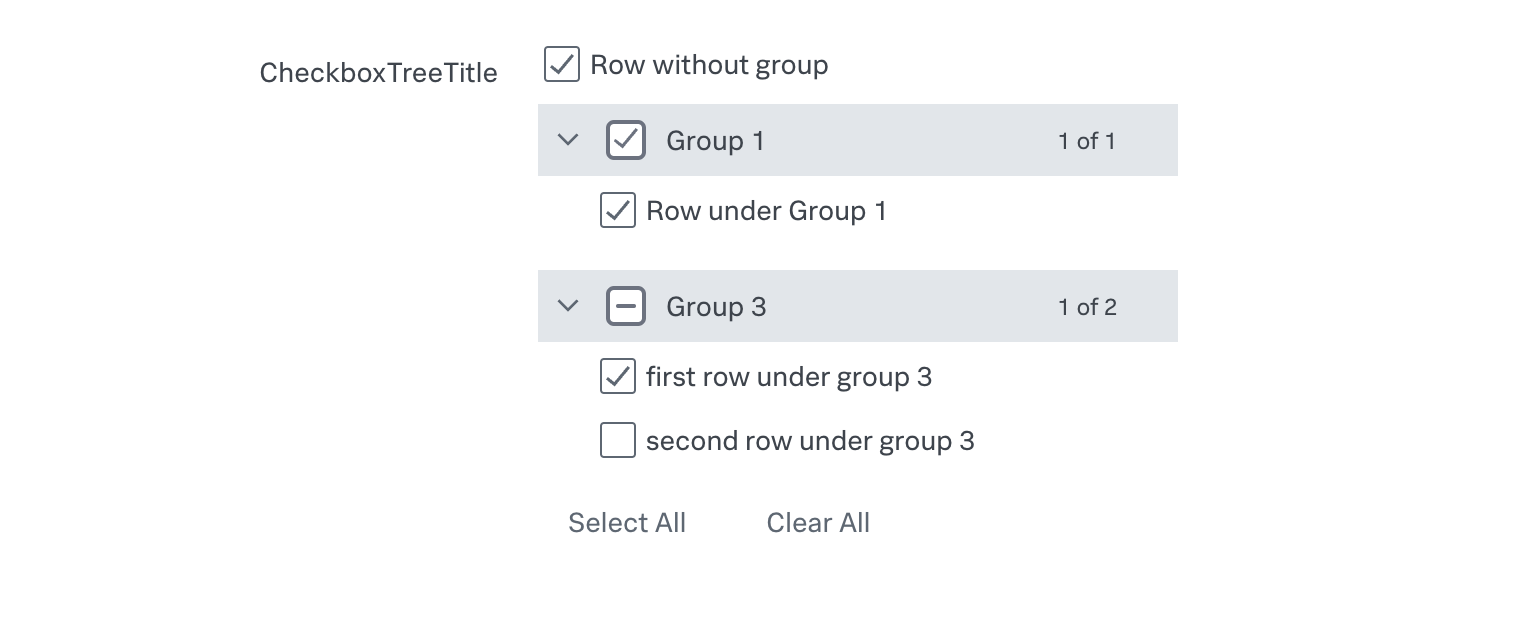
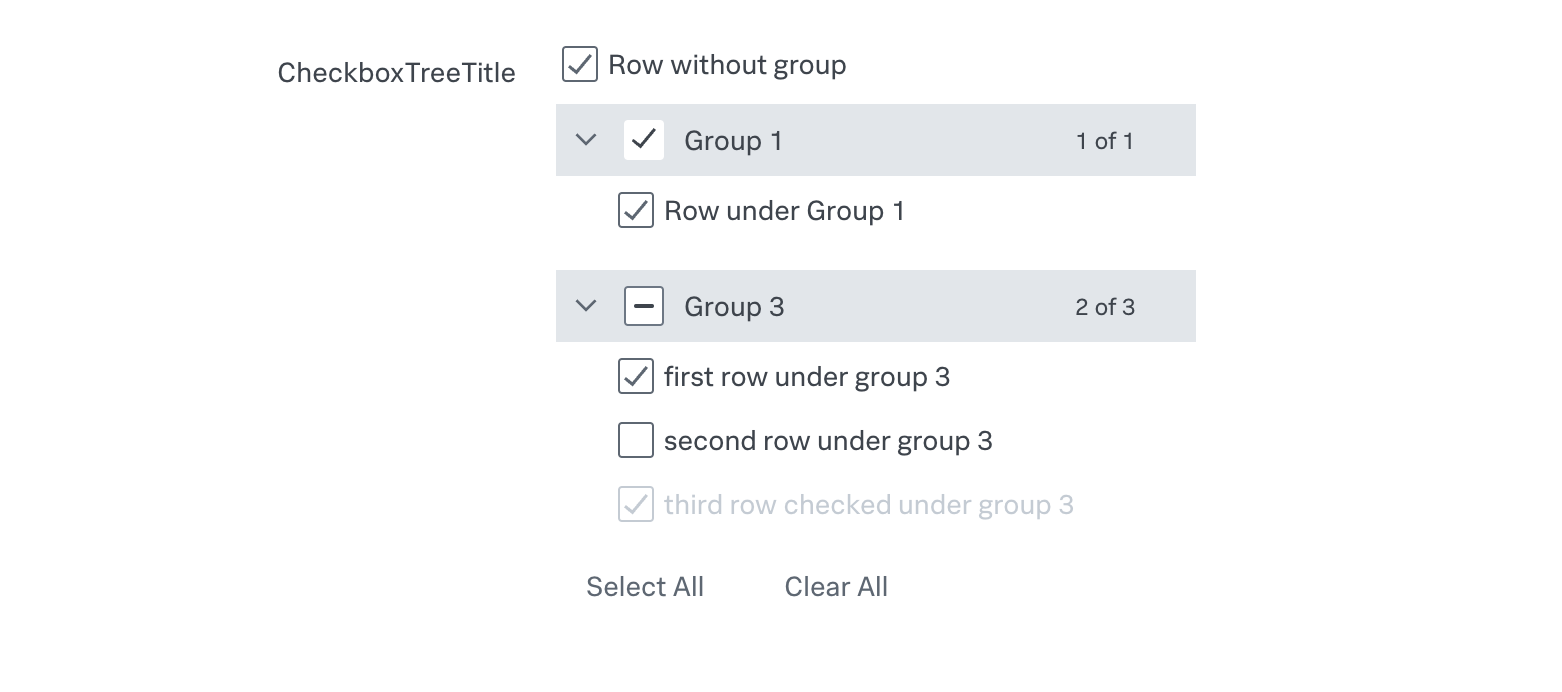
feat: add support for disable and prisma

diff --git a/ui/src/components/CheckboxTree/StyledComponent.tsx b/ui/src/components/CheckboxTree/StyledComponent.tsx
@@ -1,7 +1,7 @@
 import styled, { css } from 'styled-components';
 import ColumnLayout from '@splunk/react-ui/ColumnLayout';
 import CollapsiblePanel from '@splunk/react-ui/CollapsiblePanel';
-import { variables } from '@splunk/themes';
+import { pick, variables } from '@splunk/themes';
 import Switch from '@splunk/react-ui/Switch';
 
 export const FixedCheckboxRowWidth = css`
@@ -22,13 +22,24 @@ export const StyledCollapsiblePanel = styled(CollapsiblePanel)`
     margin-top: ${variables.spacingXSmall};
     & > *:not(:last-child) {
         button {
-            background-color: ${variables.neutral300} !important;
+            background-color: ${pick({
+                enterprise: variables.neutral300,
+                prisma: variables.neutral200,
+            })} !important;
         }
         font-size: 14px;
         margin-bottom: ${variables.spacingXSmall};
-        background-color: ${variables.neutral300};
+        background-color: ${pick({
+            enterprise: variables.neutral300,
+            prisma: variables.neutral200,
+        })};
         display: flex;
         align-items: center;
+        align-content: center;
+        // for prisma styling
+        & > span {
+            align-content: center;
+        }
     }
 `;
 
@@ -43,7 +54,10 @@ export const GroupLabel = styled.div`
     display: flex;
     justify-content: space-between;
     padding: 6px ${variables.spacingSmall};
-    background-color: ${variables.neutral300};
+    background-color: ${pick({
+        enterprise: variables.neutral300,
+        prisma: variables.neutral200,
+    })};
     font-size: 14px;
     margin: ${variables.spacingSmall} 0;
 `;
@@ -85,17 +99,26 @@ export const CustomCheckbox = styled.input.attrs({ type: 'checkbox' })`
     min-width: 20px;
     height: 20px;
     min-height: 20px;
-    border: 2px solid #6b7280;
-    border-radius: 4px;
-    background-color: #ffffff;
+    border-radius: 2px;
+    background-color: ${pick({
+        enterprise: variables.backgroundColor,
+        prisma: variables.backgroundColor,
+    })};
     cursor: pointer;
     display: inline-block;
-    margin-right: 8px;
     position: relative;
+    border: 1px solid
+        ${pick({
+            enterprise: variables.contentColorMuted,
+            prisma: variables.contentColorMuted,
+        })};
 
     &:checked {
-        background-color: #ffffff;
-        border: 2px solid #6b7280;
+        background-color: ${pick({
+            enterprise: variables.backgroundColor,
+            prisma: variables.focusColor,
+        })};
+        border: none;
     }
 
     &:checked::after {
@@ -103,7 +126,10 @@ export const CustomCheckbox = styled.input.attrs({ type: 'checkbox' })`
         position: absolute;
         width: 12px;
         height: 12px;
-        background-color: #6b7280;
+        background-color: ${pick({
+            enterprise: variables.textColor,
+            prisma: variables.white,
+        })};
         clip-path: polygon(
             35.75% 85.22%,
             100% 8.1%,
@@ -117,12 +143,22 @@ export const CustomCheckbox = styled.input.attrs({ type: 'checkbox' })`
         transform: translate(-50%, -50%);
     }
 
+    &[data-indeterminate='true'] {
+        background-color: ${pick({
+            enterprise: variables.backgroundColor,
+            prisma: variables.focusColor,
+        })};
+    }
+
     &[data-indeterminate='true']::after {
         content: '';
         position: absolute;
         width: 10px;
         height: 2px;
-        background-color: #6b7280;
+        background-color: ${pick({
+            enterprise: variables.textColor,
+            prisma: variables.white,
+        })};
         top: 50%;
         left: 50%;
         transform: translate(-50%, -50%);
@@ -130,8 +166,24 @@ export const CustomCheckbox = styled.input.attrs({ type: 'checkbox' })`
     }
 
     &:disabled {
-        border-color: #d1d5db;
-        background-color: #f9fafb;
+        border: 1px solid ${variables.borderColorWeak};
+        border: 1px solid
+            ${pick({
+                enterprise: variables.borderColorWeak,
+                prisma: variables.contentColorDisabled,
+            })};
+        background-color: ${pick({
+            enterprise: variables.backgroundColor,
+            prisma: variables.backgroundColorDialog,
+        })};
         cursor: not-allowed;
+    }
+
+    &:disabled[data-indeterminate='true']::after,
+    &:disabled[checked]::after {
+        background-color: ${pick({
+            enterprise: variables.borderColorWeak,
+            prisma: variables.contentColorMuted,
+        })};
     }
 `;

diff --git a/ui/src/components/CheckboxTree/CheckboxTree.tsx b/ui/src/components/CheckboxTree/CheckboxTree.tsx
@@ -78,16 +78,28 @@ function CheckboxTree(props: CheckboxTreeProps) {
 
     const handleCheckboxToggleAll = useCallback(
         (newCheckboxValue: boolean) => {
+            if (disabled === true) {
+                return;
+            }
             setValues((prevValues) => {
                 const updatedValues = new Map(prevValues);
                 controlOptions.rows.forEach((row) => {
+                    // Find the group the row belongs to
+                    const group = controlOptions?.groups?.find((item) =>
+                        item.fields.includes(row.field)
+                    );
+
+                    // Skip updating if the group or the row is disabled
+                    if (group?.options?.disabled || row.checkbox?.disabled === true) {
+                        return;
+                    }
                     updatedValues.set(row.field, { checkbox: newCheckboxValue });
                 });
                 handleChange(field, packValue(updatedValues), 'checkboxTree');
                 return updatedValues;
             });
         },
-        [controlOptions.rows, field, handleChange]
+        [controlOptions?.groups, controlOptions.rows, disabled, field, handleChange]
     );
 
     return (
@@ -111,7 +123,7 @@ function CheckboxTree(props: CheckboxTreeProps) {
                                     row={row}
                                     values={values}
                                     handleRowChange={handleRowChange}
-                                    disabled={disabled}
+                                    disabled={disabled || row.checkbox?.disabled}
                                 />
                             </ColumnLayout.Row>
                         )

diff --git a/ui/src/components/CheckboxTree/stories/CheckboxTree.stories.tsx b/ui/src/components/CheckboxTree/stories/CheckboxTree.stories.tsx
@@ -225,3 +225,36 @@ export const CreateMode: Story = {
         },
     },
 };
+
+export const Disabled: Story = {
+    args: {
+        ...Base.args,
+        value: undefined,
+        mode: MODE_CREATE,
+        disabled: true,
+        controlOptions: {
+            groups: [
+                {
+                    label: 'Group 1',
+                    fields: ['collect_collaboration', 'collect_file'],
+                    options: { isExpandable: false },
+                },
+            ],
+            rows: [
+                {
+                    field: 'collect_collaboration',
+                    checkbox: {
+                        label: 'Collect folder collaboration',
+                        defaultValue: true,
+                    },
+                },
+                {
+                    field: 'collect_file',
+                    checkbox: {
+                        label: 'Collect file metadata',
+                    },
+                },
+            ],
+        },
+    },
+};

diff --git a/ui/src/components/CheckboxTree/CheckboxSubTree.tsx b/ui/src/components/CheckboxTree/CheckboxSubTree.tsx
@@ -57,7 +57,8 @@ const CheckboxSubTree: React.FC<CheckboxSubTreeProps> = ({
                 checked={isParentChecked}
                 data-indeterminate={isIndeterminate}
                 onChange={() => handleParentCheckboxForGroup(group.label, !isParentChecked)}
-                disabled={disabled}
+                disabled={disabled || group.options?.disabled}
+                aria-label="custom checkbox for group"
             />
             {group.label}
         </CheckboxWrapper>
@@ -68,7 +69,7 @@ const CheckboxSubTree: React.FC<CheckboxSubTreeProps> = ({
             {group.rows.map((row) => (
                 <CheckboxRowWrapper
                     key={`row_${row.field}`}
-                    disabled={disabled}
+                    disabled={disabled || row.checkbox?.disabled || group.options?.disabled}
                     row={row}
                     values={values}
                     handleRowChange={handleRowChange}

diff --git a/ui/src/components/CheckboxTree/types.ts b/ui/src/components/CheckboxTree/types.ts
@@ -3,7 +3,6 @@ import { Mode } from '../../constants/modes';
 export type Field = string;
 export type Value = {
     checkbox: boolean;
-    inputValue?: number;
     error?: string;
 };
 
@@ -15,6 +14,7 @@ export interface Group {
     options?: {
         isExpandable?: boolean;
         expand?: boolean;
+        disabled?: boolean;
     };
 }
 
@@ -23,6 +23,7 @@ export interface Row {
     checkbox?: {
         label?: string;
         defaultValue?: boolean;
+        disabled?: boolean;
     };
 }
 

diff --git a/ui/src/components/CheckboxTree/CheckboxTreeRowWrapper.tsx b/ui/src/components/CheckboxTree/CheckboxTreeRowWrapper.tsx
@@ -20,7 +20,7 @@ function CheckboxRowWrapper({
             label={row.checkbox?.label || row.field}
             checkbox={!!valueForField?.checkbox}
             handleChange={handleRowChange}
-            disabled={disabled}
+            disabled={disabled || row.checkbox?.disabled}
         />
     );
 }

diff --git a/docs/entity/components.md b/docs/entity/components.md
@@ -344,9 +344,10 @@ See the following example usage:
             "label": "Group 3",
             "options": {
                 "isExpandable": true,
-                "expand": true
+                "expand": true,
+                "disabled": false
             },
-            "fields": ["firstRowUnderGroup3", "secondRowUnderGroup3"]
+            "fields": ["firstRowUnderGroup3", "secondRowUnderGroup3", "thirdRowUnderGroup3"]
         }
     ],
     "rows": [
@@ -375,6 +376,14 @@ See the following example usage:
             "field": "secondRowUnderGroup3",
             "checkbox": {
                 "label": "second row under group 3"
+            }
+        },
+        {
+            "field": "thirdRowUnderGroup3",
+            "checkbox": {
+                "label": "third row checked under group 3",
+                "defaultValue": true,
+                "disabled": true
             }
         }
     ]
